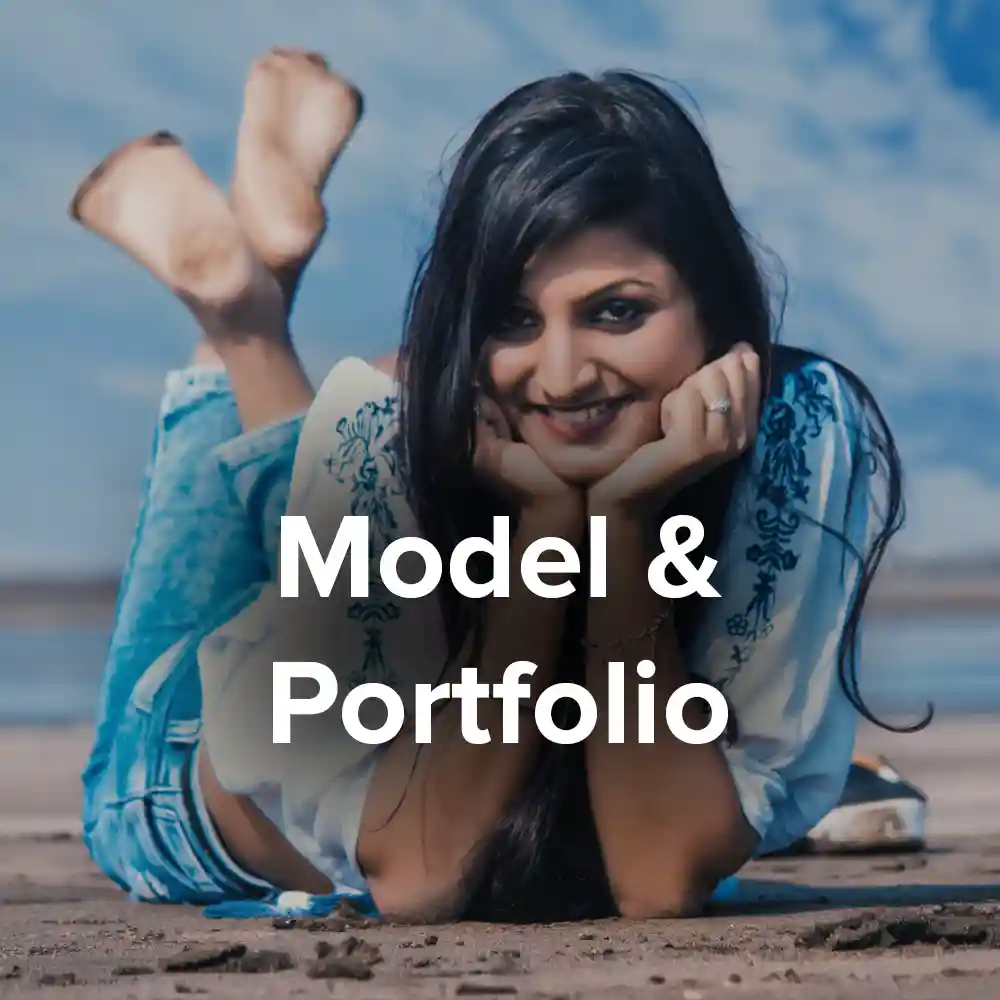
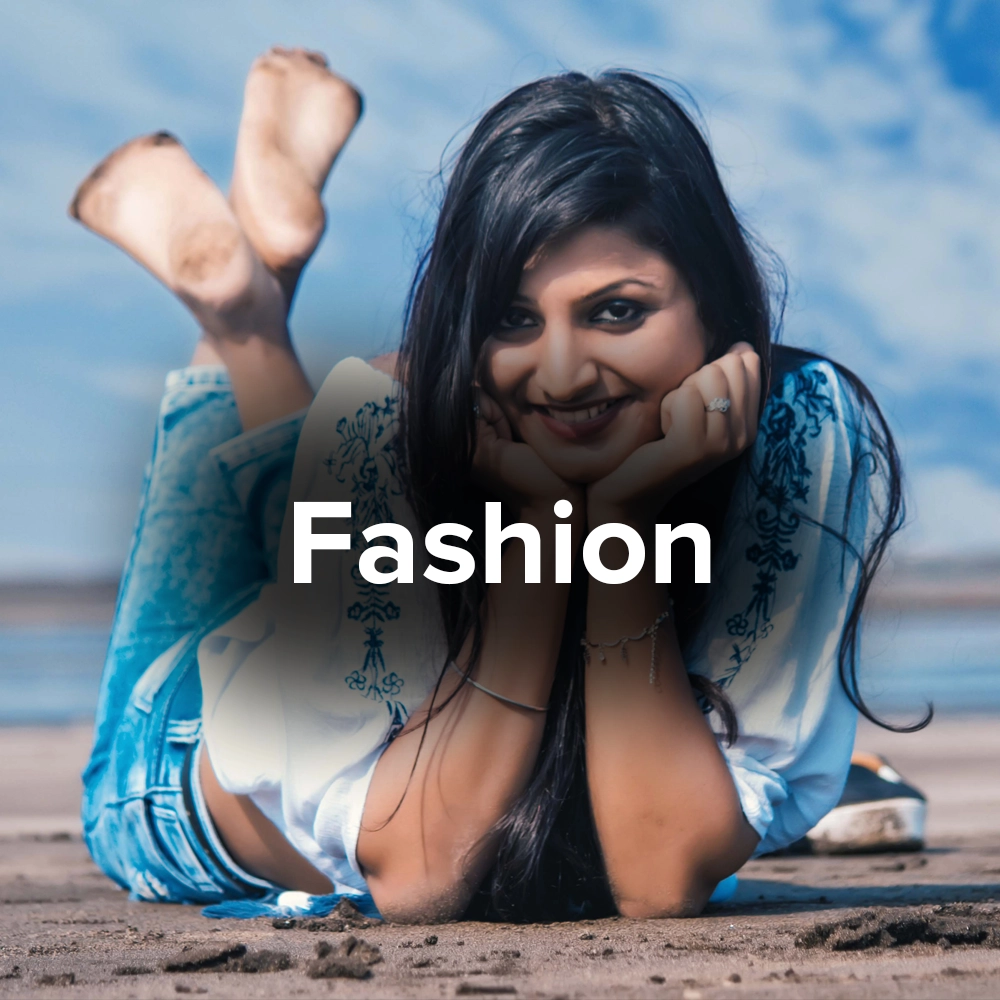
p

diff --git a/src/App.jsx b/src/App.jsx
@@ -17,7 +17,7 @@ import Weddings from "./pages/Weddings";
 import Industrial from "./pages/Industrial";
 import FilmsSeries from "./pages/FilmsSeries";
 import Events from "./pages/Events";
-import ModelPortfolio from "./pages/ModelPortfolio";
+import Fashion from "./pages/Fashion";
 import Products from "./pages/Products";
 
 
@@ -53,7 +53,7 @@ function App() {
 
         <Route path="/industrial" element={<Industrial />} />
         
-        <Route path="/model-portfolio" element={<ModelPortfolio />} />
+        <Route path="/fashion" element={<Fashion />} />
 
         <Route path="/corporate" element={<Corporate />} />
 

diff --git a/src/components/OurPortfolio.jsx b/src/components/OurPortfolio.jsx
@@ -24,9 +24,9 @@ import wedding from "../assets/images/our-portfolio/weddings.webp";
 
 const portfolioItems = [
   {
-    title: "Models & Portfolio",
+    title: "Fashion",
     image: portfolio,
-    link: "/model-portfolio",
+    link: "/fashion",
   },
   {
     title: "Films & Series",

diff --git a/src/constants/navigation.js b/src/constants/navigation.js
@@ -22,7 +22,7 @@ export const navigation = [
 
       {
         title: "Fashion",
-        path: "/model-portfolio",
+        path: "/fashion",
       },
 
       {